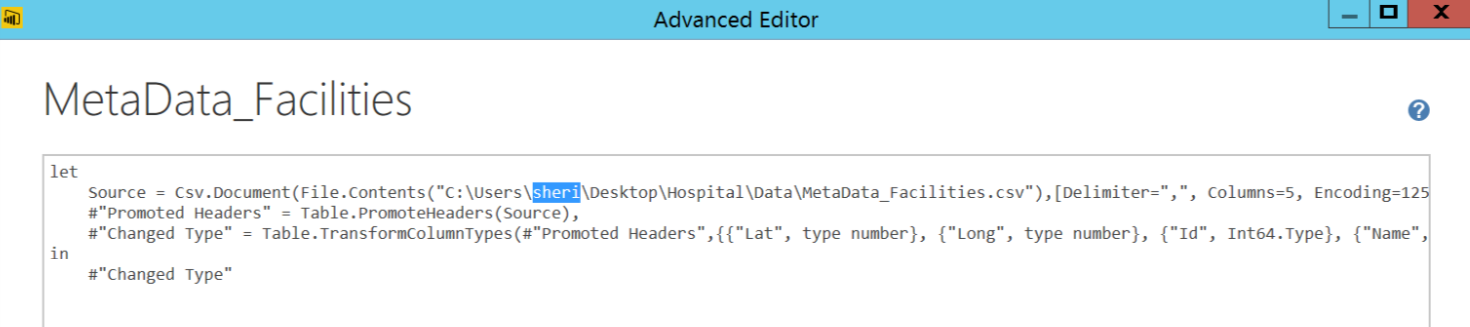
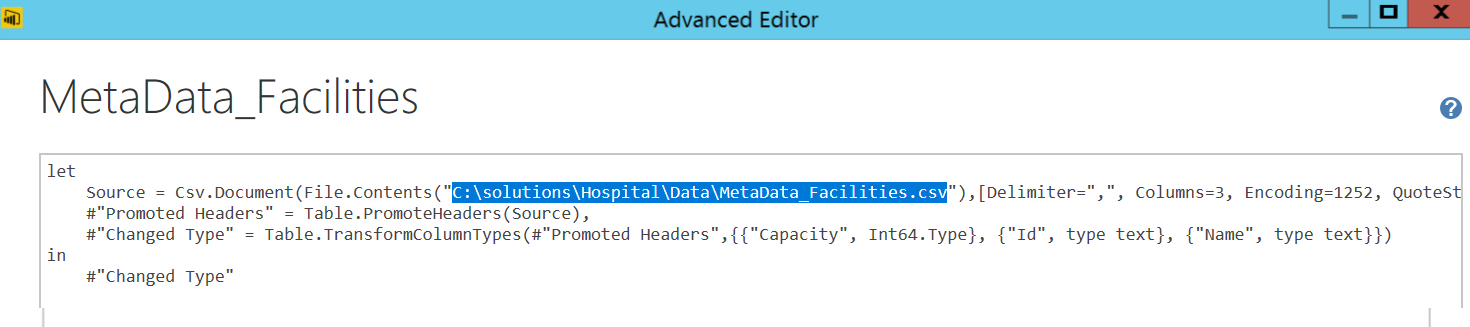
Gh pages dev (#6)
* DEV GH pages

* Remove Rdemo

* Updating Instructions

* update path in image

* remove include

* minor wording changes

* update formatting

diff --git a/Visualize_Results.md b/Visualize_Results.md
@@ -22,46 +22,46 @@ Finally, the dashboard pages are filtered to display only data for patients that
 ### Configure PowerBI to Access Data 
 In order to replace the cached data with data from your SQL Server, follow the steps below.
 
+
+
 1.	Open the `{{ site.pbi_name }}` file in the {{ site.folder_name }} folder. Click on `Edit Queries` in the toolbar.  
  <br/>
  <img src="images/vis1.png" >
 
-2.	In the Query Editor, with the first Query selected (Metadata_Facilities), if the data table does not appear, click on the `Advanced Editor`.
+2.	 In the Query Editor, with the first Query selected (Metadata_Facilities), if the data table does not appear, click on the `Advanced Editor`.
  <br/>
  <img src="images/vis2.png" >
-
-
-3. In the dialog, replace the pathname with the the path from your computer.  Click `Done` on the dialog.
+ In the dialog, replace the pathname with the the path from your computer.  Click `Done` on the dialog.
  <br/>
  <img src="images/vis3.png" >
 
- 3. (Skip this step if your SQL Server is on the same machine as your PowerBI file.) If you are connecting to a SQL Server on a different machine, in the next three queries replace "localhost" with the SQL Server IP address.  For now, ignore the permission alerts.
+4. (Skip this step if your SQL Server is on the same machine as your PowerBI file.) If you are connecting to a SQL Server on a different machine, in the next three queries replace "localhost" with the SQL Server IP address.  For now, ignore the permission alerts.
  <img src="images/vis3b.png">
 
-4.	9.	Next, click on `Close` and `Apply`. If prompted, select `Yes`.
+5.	Next, click on `Close` and `Apply`. If prompted, select `Yes`.
  <br/>
  <img src="images/vis4.png" >
 
-5.	You may be prompted one or more times for permission to Run Native Database Queries. If you don't see this, select `Refresh` in the Dashboard window.
+6.	You may be prompted one or more times for permission to Run Native Database Queries. If you don't see this, select `Refresh` in the Dashboard window.
  <br/>
  <img src="images/vis5.png"  > 
 
 
-6.	Once you see the Run Native Database Queries, select `Run`.    
+7.	Once you see the Run Native Database Queries, select `Run`.    
  <br/>
  <img src="images/vis6.png"  > 
 
-7.	If prompted to login, select Database in the dialog and enter your login details.  (The default if you have not changed it is username `rdemo`, password `D@tabase`).
+8.	If prompted to login, select Database in the dialog and enter your login details.
  <br/>
  <img src="images/vis7.png"  > 
 
-8. Finally select `OK` to the encription alert.
+9. Finally select `OK` to the encription alert.
  <br/>
  <img src="images/vis8.png"  >
 
-9.	You may see more than on of the Run Database Queries dialogs.  Continue to select `Run` on each; you will no longer have to supply login information.
+10.	You may see more than on of the Run Database Queries dialogs.  Continue to select `Run` on each; you will no longer have to supply login information.
 
-10.  You are now viewing data from your SQL Database, rather than the imported data that was part of the initial solution package.  Updates from the SQL Database will be reflected each time you hit `Refresh`. 
+11.  You are now viewing data from your SQL Database, rather than the imported data that was part of the initial solution package.  Updates from the SQL Database will be reflected each time you hit `Refresh`. 
 
 
 

diff --git a/Powershell_Instructions.md b/Powershell_Instructions.md
@@ -59,30 +59,32 @@ Running this PowerShell script will create stored procedures for the the operati
 
     * Run with no prompts: 
     
-        ```
+        <code class="highlighter-rouge">
         .\{{ site.ps1_name }} -ServerName "Server Name" -DBName "Database Name" -username "" -password "" -is_production "N" -uninterrupted "Y"  
-        ```
+        </code>
+
     * Run with prompts:
 
-        ```
+        <code class="highlighter-rouge">
         .\{{ site.ps1_name }} -ServerName "Server Name" -DBName "Database Name" -username "" -password "" -is_production "N" -uninterrupted "N"  
-        ```
+        </code>
 
-    * For example, uninterrupted mode for the rdemo user created by the create_user.sql script on your local machine, the command would be: 
+    * For example, uninterrupted mode for a user named rdemo with password D@tascience, the command would be: 
 
-        ```
+        <code class="highlighter-rouge">
         .\{{ site.ps1_name }} -ServerName "localhost" -DBName "{{ site.db_name }}" -username "rdemo" -password "D@tascience" -is_production "N" -uninterrupted "Y"  
-        ```
+        </code>
+
 
 5.  If running with prompts (`-uninterrupted "N"`), you cannot complete a step until the previous step has been completed, so only skip steps that have previously been executed.  Running in this mode allows you to specify non default names for tables.
 
 
-6.  You can also optionally add the parameter -dataPath "your path\to\csv files".  If you omit this, it defaults to the Data folder in the current directory.
+6.  You can also optionally add the parameter `-dataPath "your path\to\csv files"`.  If you omit this, it defaults to the Data folder in the current directory.
 
 
 ## Score Production Data
 ------------------------
-To score production data re-run the [command from step 4](#runcmd) this time using `-is_production "Y"`.  For example, uninterrupted mode for the rdemo user on your local machine would use the code:
+To score production data re-run the [command from step 4](#runcmd) this time using `-is_production "Y"`.  For example, uninterrupted mode for a user named rdemo with password D@tascience:
 
 <code class="highlighter-rouge">
 .\{{ site.ps1_name }} -ServerName "localhost" -DBName "{{ site.db_name }}" -username "rdemo" -password "D@tascience" -is_production "Y" -uninterrupted "Y"  

diff --git a/_includes/step2.md b/_includes/step2.md
@@ -8,27 +8,8 @@
 
     In both Visual Studio and RStudio, there are multiple ways to execute the code from the R Script window.  The fastest way for both IDEs is to use Ctrl-Enter on a single line or a selection.  Learn more about  <a href="http://microsoft.github.io/RTVS-docs/">R Tools for Visual Studio</a> or <a href="https://www.rstudio.com/products/rstudio/features/">RStudio</a>.
 
-2.  If you are following along, if you have modified any of the default values created by this solution package you will need to replace the connection string in the **SQL_connection.R** file with details of your login and database name.  
-   
-       
-        connection_string <- "Driver=SQL Server;Server=localhost;Database={{ site.db_name }};UID=rdemo;PWD=D@tascience"
-         
-
-    <div class = "label label-info">
-        Make sure there are no spaces around the "=" in the connection string - it will not work correctly when spaces are present.
-    </div>
-
-    If you are creating a new database by using these scripts, you must first create the database name in SSMS.  Once it exists it can be referenced in the connection string.  (Log into SSMS using the same username/password you supply in the connection string, or `rdemo`, `D@tascience` if you haven't changed the default values.)
-
-    This connection string contains all the information necessary to connect to the SQL Server from inside the R session. As you can see in the script, this information is then used in the `RxInSqlServer()` command to setup a `sql` string.  The `sql` string is in turn used in the `rxSetComputeContext()` to execute code directly in-database.  You can see this in the **SQL_connection.R** file:
-
-        connection_string <- "Driver=SQL Server;Server=localhost;Database={{ site.db_name }};UID=rdemo;PWD=D@tascience"
-        sql <- RxInSqlServer(connectionString = connection_string)
-        rxSetComputeContext(sql)
-      
-
-    
- 3.  After running the step1 and step2 scripts, Debra goes to SQL Server Management Studio to log in and view the results of these steps  by running the following query:
+          
+3.  After running the step1 and step2 scripts, Debra goes to SQL Server Management Studio to log in and view the results of these steps  by running the following query:
         
 
         SELECT TOP 1000 *    FROM [Hospital].[dbo].[LoS]

diff --git a/SetupSQL.md b/SetupSQL.md
@@ -1,6 +1,6 @@
 ---
 layout: default
-title: On-Prem: Setup SQL Server 2016
+title: "On-Prem: Setup SQL Server 2016"
 ---
 
 ## On-Prem: Setup SQL Server 2016 
@@ -45,7 +45,7 @@ If you are administering your own server and want to add a user to run the code 
     <br/>
     <img src="images/sqluser.png"  >
  
-4. Create the "rdemo" user  by double clicking on the <code>Resources/create_user.sql</code> file and executing it. (This user login will be used to install data and procedures).  NOTE: the user is set up with a default password of "D@tascience" in this file - you may want to change that to your own password before executing the commands.
+4. Double click on **Resources/exampleuser.sql** file to see how to create a user with all the correct settings to execute R code. (This user login will be used to install data and procedures). Change the username and password to the one you wish to use before executing this query.
 
 5. 	Check to make sure you have set your Server Authentication mode to SQL Server and Windows Authentication mode. 
     *	In SQL Server Management Studio Object Explorer, right-click the server, and then click <code>Properties</code>.
@@ -55,7 +55,7 @@ If you are administering your own server and want to add a user to run the code 
     *	In the SQL Server Management Studio dialog box, click OK.  If you changed the mode in the previous step, you will need to also acknowledge the requirement to restart SQL Server.
     * If you changed the mode, restart the server.  In the Object Explorer, right-click your server, and then click <code>Restart</code>. If SQL Server Agent is running, it must also be restarted.
 
-6.	Now, click on <code>File</code> on the top left corner of the SQL Server window and select <code>Connect Object Explorer…</code> verify that you can connect to the server with this username(<code>rdemo</code>) and password(<code>D@tascience</code>) using the SQL Server Authentication.
+6.	Now, click on `File` on the top left corner of the SQL Server window and select `Connect Object Explorer…` verify that you can connect to the server with the username and password you created using the SQL Server Authentication.
 
 
 ### Ready to Run Code 

diff --git a/jupyter.md b/jupyter.md
@@ -20,17 +20,23 @@ Once the server is running, open the Mozilla Firefox web browser.  Type the foll
 
 You will get a security warning, hit the "Advanced" button and add this to your exceptions to access the Jupyter session.
 
- There are a number of samples available on the VM server.  You can add the **{{ site.jupyter_name }}** by moving or copying it from **Desktop/{{ site.folder_name }}/R** into **C:/`vmname`/notebooks** (for example, if your VM name is "dsvm" the path is **C:/dsvm/notebooks**).  
+ There are a number of samples available on the VM server along with the **Hospital_Length_Of_Stay_Notebook**. 
 
- Once the Jupyter server is running on your VM, you can also connect to it from another computer by using the Public IP address in the url:
+
+ Once the Jupyter server is running on your VM, you can also connect to it from another computer by first opening the firewall: 
+
+    netsh advfirewall firewall add rule name="Jupyter" dir=in action=allow protocol=tcp localport=9999
+
+
+ and then using the Public IP address in the url:
 
     https://ipaddress:9999
         
-The ipaddress can be found in the Azure Portal under the "Network interfaces" section - use the Public IP Address.##
+The ipaddress can be found in the Azure Portal under the "Network interfaces" section - use the Public IP Address.
 
 ## Using Jupyter
 
-To execute the code in a cell, ` Shift+Enter` when your cursor is in the cell.  Some of the cells may take a minute or two to work, and must be complete before the next cell can execute.  You can also select the Cell>Run All menu item to execute the entire notebook.
+To execute the code in a cell, `Shift+Enter` when your cursor is in the cell.  Some of the cells may take a minute or two to work, and must be complete before the next cell can execute.  You can also select the `Cell>Run All` menu item to execute the entire notebook.
 
 
 <a href="CIG_Workflow.html#step2">Return to Typical Workflow for Cortana Intelligence Gallery Deployment<a>

diff --git a/_includes/step3.md b/_includes/step3.md
@@ -37,12 +37,12 @@ You can create the production pipeline using the following commands in a PowerSh
         .\{{ site.ps1_name }} -ServerName "Server Name" -DBName "Database Name" -username "" -password "" -is_production "Y" -uninterrupted "N"  
         ```
 
-    * For example, uninterrupted mode for the rdemo user created by the create_user.sql script on your local machine, the command would be: 
+    * For example, uninterrupted mode for some user  "rdemo" user with a password of "D@tascience", the command would be: 
 
         ```
         .\{{ site.ps1_name }} -ServerName "localhost" -DBName "{{ site.db_name }}" -username "rdemo" -password "D@tascience" -is_production "Y" -uninterrupted "Y"  
         ```
 
-You can explore these stored procedures by logging into SSMS and opening the `Programmability>Stored Procedures` section of the `{{ site.db_name }}` database.  Log into SSMS using the `rdemo` user with SQL Server Authentication - the default password upon creating the solution was `D@tascience`, unless you changed this password.
+You can explore these stored procedures by logging into SSMS and opening the `Programmability>Stored Procedures` section of the `{{ site.db_name }}` database.
 
 

diff --git a/CIG_Workflow.md b/CIG_Workflow.md
@@ -30,9 +30,8 @@ This guide assumes you have deployed the {{ site.solution_name }} solution from 
 
 *If you are using your own SQL Server for this solution, [use this guide instead](Typical_Workflow.html).*
 
-{% include password.md %}
 
-To demonstrate a typical workflow, we'll introduce you to a few personas.  You can follow along by performing the same steps for each persona.  While each persona would be working on a different computer, for simplicity, your Virtual Machine (VM) has all the tools each persona would use on the same machine.  (Or you can use your own computer with optional instructions below.  If using your computer make sure to follow the instructions above to change the password and add appropriate firewall rules.)
+To demonstrate a typical workflow, we'll introduce you to a few personas.  You can follow along by performing the same steps for each persona.  While each persona would be working on a different computer, for simplicity, your Virtual Machine (VM) has all the tools each persona would use on the same machine.
 
  <a name="step1" id="step1"></a>
         

diff --git a/local.md b/local.md
@@ -12,11 +12,10 @@ Connect to the VM to perform the following steps.
 
 You must open the Windows firewall on the VM to allow a connection to the SQL Server. To open the firewall, execute the following command in a PowerShell window on the VM:
 
-    netsh advfirewall firewall add rule name="SQLServer" dir=in action=allow protocol=tcp localport=1433 
+<code class="highlighter-rouge">
+netsh advfirewall firewall add rule name="SQLServer" dir=in action=allow protocol=tcp localport=1433 
+</code>
 
-SQL Server on the VM has been set up with a user `rdemo` and a default password of `D@tascience`.  Once you open the firewall, you may also want to also change the password, as anyone who knows the IP address can now access the server.  To do so, log into SSMS with Windows Authentication and execute the following query:
-    
-        ALTER LOGIN rdemo WITH PASSWORD = 'newpassword';  
        
 ## On your local computer:  Install R Client and Obtain Code
 

diff --git a/_includes/step1.md b/_includes/step1.md
@@ -4,4 +4,4 @@
 
 Let me introduce you to  Danny, the Database Analyst. Danny is the main contact for anything regarding the SQL Server database that stores all the patient data at our hospitals.  
 
-Danny was responsible for installing and configuring the SQL Server.  He has added a user named 'rdemo' with all the necessary permissions to execute R scripts on the server and modify the `{{ site.db_name }}` database. This was done through the **create_user.sql** file.  
+Danny was responsible for installing and configuring the SQL Server.  He has added a user with all the necessary permissions to execute R scripts on the server and modify the `{{ site.db_name }}` database. You can see an example of creating a user in the **Hospital/Resources/exampleuser.sql** query.   
